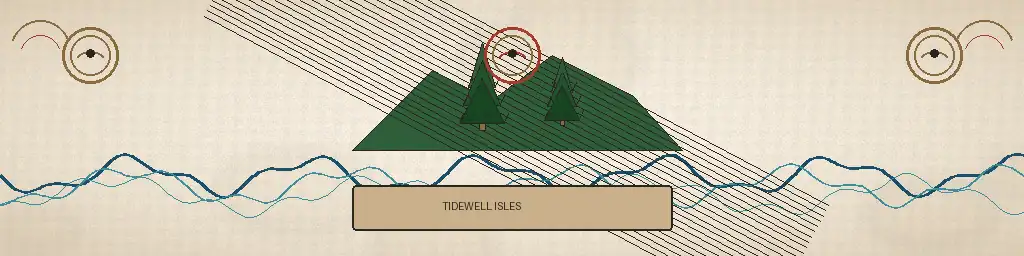
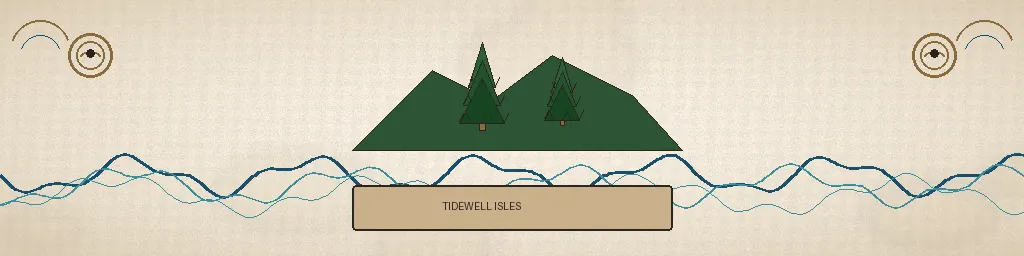
fix(g3d-art): clip/remove hatch spill and stray seals on 2D art
Hatch overlays spilled past frames and formed rectangular slabs on hex
loading art; Zhu seals floated as stray red rings. Clip hatch to shape
masks or drop overlays; remove loading/flourish stray seals; mask seat
hatch to the inner disk. STATUS: G3D-ART improved but below settlecoast
bar — Blocked pending user sourcing decision; no further art passes.

diff --git a/src/render3d/assets/manifest.ts b/src/render3d/assets/manifest.ts
@@ -350,7 +350,7 @@ export const ASSET_MANIFEST: readonly AssetManifestEntry[] = Object.freeze(
     "id": "illustration/resource-wood",
     "file": "assets/illustrations/cards/resource-wood.webp",
     "kind": "illustration",
-    "bytes": 34938,
+    "bytes": 21218,
     "tier": "all",
     "source": "procedural",
     "license": {
@@ -368,7 +368,7 @@ export const ASSET_MANIFEST: readonly AssetManifestEntry[] = Object.freeze(
     "id": "illustration/resource-brick",
     "file": "assets/illustrations/cards/resource-brick.webp",
     "kind": "illustration",
-    "bytes": 38494,
+    "bytes": 21762,
     "tier": "all",
     "source": "procedural",
     "license": {
@@ -386,7 +386,7 @@ export const ASSET_MANIFEST: readonly AssetManifestEntry[] = Object.freeze(
     "id": "illustration/resource-sheep",
     "file": "assets/illustrations/cards/resource-sheep.webp",
     "kind": "illustration",
-    "bytes": 35784,
+    "bytes": 21704,
     "tier": "all",
     "source": "procedural",
     "license": {
@@ -422,7 +422,7 @@ export const ASSET_MANIFEST: readonly AssetManifestEntry[] = Object.freeze(
     "id": "illustration/resource-ore",
     "file": "assets/illustrations/cards/resource-ore.webp",
     "kind": "illustration",
-    "bytes": 33382,
+    "bytes": 20508,
     "tier": "all",
     "source": "procedural",
     "license": {
@@ -440,7 +440,7 @@ export const ASSET_MANIFEST: readonly AssetManifestEntry[] = Object.freeze(
     "id": "illustration/dev-fog-signal",
     "file": "assets/illustrations/cards/dev-fog-signal.webp",
     "kind": "illustration",
-    "bytes": 45314,
+    "bytes": 44636,
     "tier": "all",
     "source": "procedural",
     "license": {
@@ -458,7 +458,7 @@ export const ASSET_MANIFEST: readonly AssetManifestEntry[] = Object.freeze(
     "id": "illustration/dev-tide-plenty",
     "file": "assets/illustrations/cards/dev-tide-plenty.webp",
     "kind": "illustration",
-    "bytes": 48406,
+    "bytes": 50220,
     "tier": "all",
     "source": "procedural",
     "license": {
@@ -494,7 +494,7 @@ export const ASSET_MANIFEST: readonly AssetManifestEntry[] = Object.freeze(
     "id": "illustration/seat-0",
     "file": "assets/illustrations/brand/seat-0.webp",
     "kind": "illustration",
-    "bytes": 19444,
+    "bytes": 17234,
     "tier": "all",
     "source": "procedural",
     "license": {
@@ -512,7 +512,7 @@ export const ASSET_MANIFEST: readonly AssetManifestEntry[] = Object.freeze(
     "id": "illustration/seat-1",
     "file": "assets/illustrations/brand/seat-1.webp",
     "kind": "illustration",
-    "bytes": 19862,
+    "bytes": 17438,
     "tier": "all",
     "source": "procedural",
     "license": {
@@ -530,7 +530,7 @@ export const ASSET_MANIFEST: readonly AssetManifestEntry[] = Object.freeze(
     "id": "illustration/seat-2",
     "file": "assets/illustrations/brand/seat-2.webp",
     "kind": "illustration",
-    "bytes": 17882,
+    "bytes": 17048,
     "tier": "all",
     "source": "procedural",
     "license": {
@@ -548,7 +548,7 @@ export const ASSET_MANIFEST: readonly AssetManifestEntry[] = Object.freeze(
     "id": "illustration/seat-3",
     "file": "assets/illustrations/brand/seat-3.webp",
     "kind": "illustration",
-    "bytes": 18176,
+    "bytes": 16612,
     "tier": "all",
     "source": "procedural",
     "license": {
@@ -566,7 +566,7 @@ export const ASSET_MANIFEST: readonly AssetManifestEntry[] = Object.freeze(
     "id": "illustration/island-flourish",
     "file": "assets/illustrations/brand/island-flourish.webp",
     "kind": "illustration",
-    "bytes": 29426,
+    "bytes": 26494,
     "tier": "all",
     "source": "procedural",
     "license": {
@@ -584,7 +584,7 @@ export const ASSET_MANIFEST: readonly AssetManifestEntry[] = Object.freeze(
     "id": "illustration/loading-tidewell",
     "file": "assets/illustrations/brand/loading-tidewell.webp",
     "kind": "illustration",
-    "bytes": 108536,
+    "bytes": 103888,
     "tier": "all",
     "source": "procedural",
     "license": {

diff --git a/scripts/gen-brand-art.py b/scripts/gen-brand-art.py
@@ -19,6 +19,7 @@ from lib.parchment import (  # noqa: E402
     WOOD,
     ZHU,
     hatch,
+    hatch_in_mask,
     parchment_base,
     paste_render,
     pine_tree,
@@ -51,7 +52,10 @@ def seat_badge(i: int) -> Image.Image:
     d.ellipse((40, 40, 216, 216), fill=c, outline=INK, width=3)
     # inner parchment disk
     d.ellipse((70, 70, 186, 186), fill=PAPER, outline=PAPER_DEEP, width=2)
-    hatch(d, (80, 80, 176, 176), spacing=5, angle=35 + i * 12, fill=tuple(max(0, x - 30) for x in c), width=1)
+    smask = Image.new("L", (w, h), 0)
+    ImageDraw.Draw(smask).ellipse((74, 74, 182, 182), fill=255)
+    img = hatch_in_mask(img, smask, spacing=5, angle=35 + i * 12, fill=tuple(max(0, x - 30) for x in c), width=1)
+    d = ImageDraw.Draw(img)
     # tide mark
     d.arc((85, 95, 171, 175), 200, 340, fill=SEA, width=3)
     d.arc((95, 105, 161, 165), 210, 330, fill=SEA_NEAR, width=2)
@@ -63,8 +67,6 @@ def seat_badge(i: int) -> Image.Image:
         x1, y1 = 128 + math.cos(ang) * 108, 128 + math.sin(ang) * 108
         d.line((x0, y0, x1, y1), fill=FOAM if k % 2 == 0 else INK, width=2)
     d.text((116, 148), f"S{i}", fill=INK)
-    # tiny seal
-    seal_stamp(d, 200, 200, 22, ZHU)
     return img
 
 
@@ -75,20 +77,24 @@ def flourish() -> Image.Image:
     wave_band(d, 175, w, amp=16, color=SEA, width=3, phases=3)
     # island silhouette mid
     cx = w // 2
-    d.polygon([(cx - 160, 150), (cx - 80, 70), (cx - 20, 100), (cx + 40, 55), (cx + 120, 95), (cx + 170, 150)], fill=WOOD, outline=INK)
-    hatch(d, (cx - 150, 70, cx + 160, 150), spacing=6, angle=28, fill=INK, width=1)
+    island = [(cx - 160, 150), (cx - 80, 70), (cx - 20, 100), (cx + 40, 55), (cx + 120, 95), (cx + 170, 150)]
+    d.polygon(island, fill=WOOD, outline=INK)
+    # subtle inner shade without hatch slabs
+    shade = Image.new("RGBA", (w, h), (0, 0, 0, 0))
+    ImageDraw.Draw(shade).polygon(island, fill=(42, 36, 28, 40))
+    img = Image.alpha_composite(img.convert("RGBA"), shade).convert("RGB")
+    d = ImageDraw.Draw(img)
     pine_tree(d, cx - 30, 40, 90, WOOD)
     pine_tree(d, cx + 50, 55, 70, WOOD)
-    # ornamental knots
-    for x in (90, w // 2, w - 90):
-        seal_stamp(d, x, 55, 28, ZHU if x == w // 2 else COPPER)
+    for x in (90, w - 90):
+        seal_stamp(d, x, 55, 22, COPPER)
     # title banner
     d.rounded_rectangle((cx - 160, 185, cx + 160, 230), radius=4, outline=INK, fill=PAPER_DEEP, width=2)
     d.text((cx - 70, 200), "TIDEWELL ISLES", fill=INK)
     # corner flourishes
     for x0 in (40, w - 40):
         d.arc((x0 - 30, 20, x0 + 30, 80), 200, 340, fill=COPPER, width=2)
-        d.arc((x0 - 20, 35, x0 + 20, 75), 200, 340, fill=ZHU, width=1)
+        d.arc((x0 - 20, 35, x0 + 20, 75), 200, 340, fill=SEA, width=1)
     return img
 
 
@@ -127,13 +133,15 @@ def loading() -> Image.Image:
             pts = [(hx + hex_r * _m.cos(_m.radians(60 * i - 30)), hy + hex_r * _m.sin(_m.radians(60 * i - 30))) for i in range(6)]
             shade = tuple(max(0, c - ring * 8) for c in col)
             d.polygon(pts, fill=shade, outline=INK)
-            hatch(d, (hx - 40, hy - 35, hx + 40, hy + 35), spacing=5, angle=30 + k * 5, fill=INK, width=1)
+            # soft inner vignette per hex (no hatch)
+            inset = [(hx + (hex_r - 10) * _m.cos(_m.radians(60 * i - 30)), hy + (hex_r - 10) * _m.sin(_m.radians(60 * i - 30))) for i in range(6)]
+            d.polygon(inset, outline=tuple(max(0, c - 25) for c in shade))
 
     # composite mesh renders as harbor props
     dock = tone_render(RENDERS / "dock.png", 320, tint=COPPER)
     lamp = tone_render(RENDERS / "fog-lamp.png", 260, tint=SEA)
-    sett = tone_render(RENDERS / "settlement.png", 220, tint=SEATS[0])
-    city = tone_render(RENDERS / "city.png", 240, tint=SEATS[2])
+    sett = tone_render(RENDERS / "settlement.png", 220, tint=COPPER)
+    city = tone_render(RENDERS / "city.png", 240, tint=COPPER)
     if dock:
         img = paste_render(img, dock, cx - 280, int(h * 0.58), 0.9)
     if lamp:
@@ -145,7 +153,7 @@ def loading() -> Image.Image:
     d = ImageDraw.Draw(img)
     pine_tree(d, cx - 200, cy - 80, 120, WOOD)
     pine_tree(d, cx + 200, cy - 60, 100, WOOD)
-    seal_stamp(d, cx, int(h * 0.78), 48, ZHU)
+    # no floating seal — loading chrome is the caption band only
     d.rounded_rectangle((cx - 200, int(h * 0.86), cx + 200, int(h * 0.93)), radius=6, outline=INK, fill=PAPER_DEEP, width=2)
     d.text((cx - 90, int(h * 0.88)), "LOADING TIDEWELL…", fill=INK)
     return img

diff --git a/scripts/lib/parchment.py b/scripts/lib/parchment.py
@@ -137,22 +137,86 @@ def apply_torn_frame(img: Image.Image, margin: int, seed: int, ink_w: int = 3) -
     return framed
 
 
+def _clip_segment_to_box(x0, y0, x1, y1, box):
+    """Cohen–Sutherland clip; returns (xa,ya,xb,yb) or None."""
+    xmin, ymin, xmax, ymax = box
+    INSIDE, LEFT, RIGHT, BOTTOM, TOP = 0, 1, 2, 4, 8
+
+    def code(x, y):
+        c = INSIDE
+        if x < xmin: c |= LEFT
+        elif x > xmax: c |= RIGHT
+        if y < ymin: c |= BOTTOM
+        elif y > ymax: c |= TOP
+        return c
+
+    c0, c1 = code(x0, y0), code(x1, y1)
+    for _ in range(8):
+        if not (c0 | c1):
+            return x0, y0, x1, y1
+        if c0 & c1:
+            return None
+        c_out = c0 or c1
+        if c_out & TOP:
+            x = x0 + (x1 - x0) * (ymax - y0) / ((y1 - y0) or 1e-9)
+            y = ymax
+        elif c_out & BOTTOM:
+            x = x0 + (x1 - x0) * (ymin - y0) / ((y1 - y0) or 1e-9)
+            y = ymin
+        elif c_out & RIGHT:
+            y = y0 + (y1 - y0) * (xmax - x0) / ((x1 - x0) or 1e-9)
+            x = xmax
+        else:
+            y = y0 + (y1 - y0) * (xmin - x0) / ((x1 - x0) or 1e-9)
+            x = xmin
+        if c_out == c0:
+            x0, y0 = x, y
+            c0 = code(x0, y0)
+        else:
+            x1, y1 = x, y
+            c1 = code(x1, y1)
+    return None
+
+
 def hatch(draw: ImageDraw.ImageDraw, box, spacing=6, angle=35, fill=INK, width=1, alpha_layer=None):
-    x0, y0, x1, y1 = box
-    # draw on temp if needed — caller manages
-    diag = int(math.hypot(x1 - x0, y1 - y0))
+    """Diagonal hatch strictly clipped to axis-aligned box (no spill past frame)."""
+    x0, y0, x1, y1 = [float(v) for v in box]
+    if x1 <= x0 or y1 <= y0:
+        return
+    diag = int(math.hypot(x1 - x0, y1 - y0)) + 2
     rad = math.radians(angle)
     ca, sa = math.cos(rad), math.sin(rad)
-    for i in range(-diag, diag, spacing):
-        # line through center offset
-        cx, cy = (x0 + x1) / 2, (y0 + y1) / 2
+    cx, cy = (x0 + x1) / 2, (y0 + y1) / 2
+    for i in range(-diag, diag + 1, max(1, spacing)):
         ox, oy = -sa * i, ca * i
-        x_a, y_a = cx + ox - ca * diag, cy + oy - sa * diag
-        x_b, y_b = cx + ox + ca * diag, cy + oy + sa * diag
-        # clip roughly by checking midpoint in box
-        mx, my = (x_a + x_b) / 2, (y_a + y_b) / 2
-        if x0 - 20 <= mx <= x1 + 20 and y0 - 20 <= my <= y1 + 20:
-            draw.line([(x_a, y_a), (x_b, y_b)], fill=fill, width=width)
+        xa, ya = cx + ox - ca * diag, cy + oy - sa * diag
+        xb, yb = cx + ox + ca * diag, cy + oy + sa * diag
+        clipped = _clip_segment_to_box(xa, ya, xb, yb, (x0, y0, x1, y1))
+        if clipped:
+            draw.line([(clipped[0], clipped[1]), (clipped[2], clipped[3])], fill=fill, width=width)
+
+
+def hatch_in_mask(base: Image.Image, mask: Image.Image, spacing=6, angle=35, fill=INK, width=1) -> Image.Image:
+    """Draw hatch on an overlay, then composite only where mask is opaque."""
+    w, h = base.size
+    bbox = mask.getbbox()
+    if not bbox:
+        return base
+    ink = Image.new("RGB", (w, h), (0, 0, 0))
+    od = ImageDraw.Draw(ink)
+    rgb = fill[:3] if isinstance(fill, (tuple, list)) else fill
+    hatch(od, bbox, spacing=spacing, angle=angle, fill=rgb, width=width)
+    # alpha = mask where ink was drawn (non-black)
+    gray = ink.convert("L")
+    # lines are dark; build alpha from non-background
+    # redraw hatch onto blank L for alpha
+    alpha = Image.new("L", (w, h), 0)
+    ad = ImageDraw.Draw(alpha)
+    hatch(ad, bbox, spacing=spacing, angle=angle, fill=220, width=width)
+    m = mask.convert("L")
+    alpha = Image.composite(alpha, Image.new("L", (w, h), 0), m)
+    overlay = Image.merge("RGBA", (*ink.split(), alpha))
+    return Image.alpha_composite(base.convert("RGBA"), overlay).convert("RGB")
 
 
 def wash_radial(img: Image.Image, cx: int, cy: int, radius: int, color: tuple, strength: int = 70) -> Image.Image:
@@ -286,8 +350,6 @@ def ore_crystal(draw, cx, cy, s, fill=ORE):
     draw.polygon(pts, fill=fill, outline=INK)
     draw.line((cx - s * 0.2, cy - s * 0.4, cx + s * 0.25, cy + s * 0.3), fill=FOAM, width=2)
     draw.line((cx, cy - s * 0.7, cx + s * 0.15, cy), fill=INK, width=1)
-    # cross hatch facet
-    hatch(draw, (cx - s * 0.5, cy - s * 0.3, cx + s * 0.5, cy + s * 0.5), spacing=5, angle=50, fill=INK, width=1)
 
 
 def wave_band(draw, y, w, amp=14, color=SEA, width=3, phases=2):

diff --git a/scripts/gen-card-art.py b/scripts/gen-card-art.py
@@ -27,6 +27,7 @@ from lib.parchment import (  # noqa: E402
     brick_wall,
     caption_band,
     hatch,
+    hatch_in_mask,
     ore_crystal,
     parchment_base,
     paste_render,
@@ -81,13 +82,15 @@ def draw_resource(kind: str, w=384, h=512) -> Image.Image:
         pine_tree(d, cx - 55, cy - 50, 150, WOOD)
         pine_tree(d, cx + 10, cy - 70, 175, WOOD)
         pine_tree(d, cx + 60, cy - 40, 140, WOOD)
-        # hatched undergrowth
-        hatch(d, (cx - 100, cy + 60, cx + 100, cy + 110), spacing=5, angle=25, fill=INK, width=1)
-        d.arc((cx - 90, cy + 70, cx + 90, cy + 120), 200, 340, fill=SEA_NEAR, width=2)
+        # soft ground shade only (no hatch overlay — prior hatch spilled past frame)
+        shade = Image.new("RGBA", (w, h), (0, 0, 0, 0))
+        ImageDraw.Draw(shade).ellipse((cx - 95, cy + 55, cx + 95, cy + 110), fill=(42, 36, 28, 35))
+        img = Image.alpha_composite(img.convert("RGBA"), shade).convert("RGB")
+        d = ImageDraw.Draw(img)
     elif kind == "brick":
         # kiln hinterland
-        d.polygon([(cx - 110, cy + 40), (cx - 40, cy - 80), (cx + 30, cy + 40)], fill=tuple(max(0, c - 40) for c in BRICK), outline=INK)
-        hatch(d, (cx - 100, cy - 40, cx + 20, cy + 40), spacing=6, angle=60, fill=INK, width=1)
+        kiln = [(cx - 110, cy + 40), (cx - 40, cy - 80), (cx + 30, cy + 40)]
+        d.polygon(kiln, fill=tuple(max(0, c - 40) for c in BRICK), outline=INK)
         brick_wall(d, cx + 20, cy + 10, cols=6, rows=5, bw=26, bh=15)
         # clay mound
         d.ellipse((cx - 120, cy + 70, cx - 40, cy + 120), fill=BRICK, outline=INK)
@@ -97,10 +100,9 @@ def draw_resource(kind: str, w=384, h=512) -> Image.Image:
         for i in range(18):
             x = 50 + i * 16
             d.line((x, cy + 90, x + (i % 3) - 1, cy + 40 - (i % 5) * 3), fill=SHEEP, width=2)
-        # bushes
+        # bushes — solid fill + outline only (no hatch slabs)
         for bx, by, br in ((cx - 90, cy + 50, 35), (cx + 85, cy + 55, 30), (cx - 20, cy + 70, 25)):
             d.ellipse((bx - br, by - br // 2, bx + br, by + br // 2), fill=SHEEP, outline=INK)
-            hatch(d, (bx - br, by - br // 2, bx + br, by + br // 2), spacing=4, angle=40, fill=INK, width=1)
         # composite Cycles sheep render
         sheep = tone_render(RENDERS / "sheep.png", 220, tint=SHEEP)
         if sheep:
@@ -123,8 +125,8 @@ def draw_resource(kind: str, w=384, h=512) -> Image.Image:
         d.rectangle((cx + 92, cy + 88, cx + 108, cy + 100), outline=INK, fill=PAPER_DEEP)
     elif kind == "ore":
         # reef ridge
-        d.polygon([(40, cy + 80), (100, cy - 20), (160, cy + 30), (220, cy - 60), (300, cy + 10), (350, cy + 90), (40, cy + 100)], fill=tuple(max(0, c - 30) for c in ORE), outline=INK)
-        hatch(d, (60, cy - 40, 320, cy + 80), spacing=7, angle=15, fill=INK, width=1)
+        ridge = [(40, cy + 80), (100, cy - 20), (160, cy + 30), (220, cy - 60), (300, cy + 10), (350, cy + 90), (40, cy + 100)]
+        d.polygon(ridge, fill=tuple(max(0, c - 30) for c in ORE), outline=INK)
         ore_crystal(d, cx - 40, cy, 55)
         ore_crystal(d, cx + 50, cy - 20, 70)
         ore_crystal(d, cx + 10, cy + 40, 40)
@@ -164,14 +166,13 @@ def draw_dev(kind: str, w=512, h=768) -> Image.Image:
             import math
             rad = math.radians(ang)
             d.line((cx, cy - 80, cx + math.sin(rad) * 140, cy - 80 - math.cos(rad) * 100), fill=FOAM, width=2)
-        seal_stamp(d, cx + 140, cy + 160, 36, ZHU)
+        # corner wax mark (copper, not floating Zhu seal)
+        seal_stamp(d, w - 90, h - 200, 28, COPPER)
     elif kind == "tide-plenty":
         # stacked tide arcs + moon
         for i in range(7):
             yy = cy - 60 + i * 28
             d.arc((80, yy, w - 80, yy + 70), 200, 340, fill=SEA if i % 2 == 0 else SEA_NEAR, width=3)
-            if i % 2 == 0:
-                hatch(d, (100, yy + 10, w - 100, yy + 50), spacing=10, angle=8, fill=INK, width=1)
         d.ellipse((cx - 28, cy - 140, cx + 28, cy - 84), outline=INK, fill=FOAM)
         d.ellipse((cx - 10, cy - 130, cx + 18, cy - 100), fill=PAPER_DEEP)  # crescent bite
         # fish silhouette school

diff --git a/docs/prompt-trace/2026-10-06-G3D-ART-2d.md b/docs/prompt-trace/2026-10-06-G3D-ART-2d.md
@@ -21,3 +21,8 @@
 ## 非目标
 - 不接 G3D-08/13 实现（仍阻塞）
 - 不回炉 3D PBR/meshes（等 G3D-13 接线后）
+
+## 2026-10-06 artifact clip fix
+- User review: hatch spilled past frames; loading hex hatch = rectangular slabs + stray Zhu seal.
+- Fix: clip/remove hatch overlays; remove loading/flourish stray seals; seat hatch masked to disk.
+- STATUS: ART marked improved-but-below-bar + Blocked(user decision) on sourcing; no further art passes.
